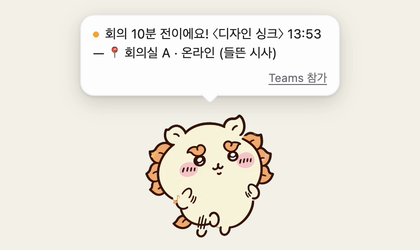
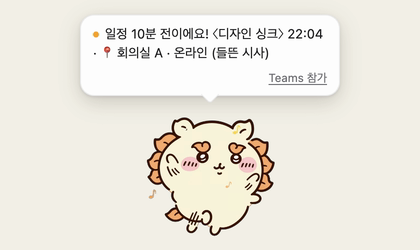
docs(readme): 시사랑 같이 공부하고 집중하기, 스크린샷(공부하는 시사·월 잔디·주 막대), 일정 알림 그림 새 문구로
데모 가짜 데몬에 집중하기를 붙이고 focus·focus-stats 장면을 넣었다.

diff --git a/desktop/test/fake-focus.test.js b/desktop/test/fake-focus.test.js
@@ -1,0 +1,74 @@
+import { test } from 'node:test';
+import assert from 'node:assert/strict';
+import { createFakeFocus, seedSpans, localDay, handleFocus } from '../scripts/fake-focus.mjs';
+
+const NOW = new Date(2026, 9, 14, 15, 0, 0).getTime(); // 2026-10-14(수) 15:00 로컬
+
+test('가짜 집중하기: 시작·일시정지·다시 시작·그만(두 번 눌러도 안전), 쉰 시간은 빼고 셈', () => {
+  let t = NOW;
+  const events = [];
+  const f = createFakeFocus({ emit: (e, d) => events.push([e, d]), now: () => t, seed: false });
+  assert.equal(f.view().active, null);
+  f.start();
+  const id = f.view().active.id;
+  f.start();
+  assert.equal(f.view().active.id, id);
+  t += 10 * 60e3;
+  f.pause(); f.pause();
+  assert.equal(f.view().active.paused, true);
+  assert.equal(f.view().active.since, null);
+  t += 5 * 60e3; // 쉬는 중
+  f.resume();
+  t += 2 * 60e3;
+  assert.equal(f.view().active.seconds, 12 * 60);
+  assert.equal(f.view().today, 12 * 60);
+  const r = f.stop();
+  assert.deepEqual(r.stopped, { id, seconds: 12 * 60 });
+  assert.equal(r.active, null);
+  assert.equal(f.stop().stopped, null);
+  assert.ok(events.some(([e, d]) => e === 'bubble' && d.text === '12분 집중했어요. 수고했어요!'));
+  assert.ok(events.filter(([e]) => e === 'focus').length >= 4);
+});
+
+test('가짜 집중하기: stats 는 날마다 seconds·longest, 자정 넘긴 구간은 나눠 셈, 틀린 범위는 undefined', () => {
+  let t = new Date(2026, 9, 13, 23, 50).getTime();
+  const f = createFakeFocus({ now: () => t, seed: false });
+  f.start();
+  t += 30 * 60e3; // 00:20 까지
+  f.stop();
+  const s = f.stats('2026-10-13', '2026-10-14');
+  assert.deepEqual(s.days, [{ date: '2026-10-13', seconds: 600, longest: 600 }, { date: '2026-10-14', seconds: 1200, longest: 1200 }]);
+  assert.equal(s.total, 1800);
+  assert.equal(f.stats('2026-10-14', '2026-10-13'), undefined);
+  assert.equal(f.stats('2026-13-01', '2026-13-02'), undefined);
+});
+
+test('지어 넣은 기록: 지난 몇 주에 진한 날·연한 날·쉰 날이 섞여 있고, 돌릴 때마다 같다', () => {
+  const f = createFakeFocus({ now: () => NOW });
+  const s = f.stats('2026-09-01', '2026-10-13');
+  const lv = (sec) => (sec < 1 ? 0 : sec < 1800 ? 1 : sec < 3600 ? 2 : sec < 7200 ? 3 : 4);
+  const levels = new Set(s.days.map((d) => lv(d.seconds)));
+  assert.deepEqual([...levels].sort(), [0, 1, 2, 3, 4]);
+  for (const d of s.days) assert.ok(d.longest <= d.seconds);
+  assert.deepEqual(seedSpans(NOW), seedSpans(NOW));
+  assert.ok(f.view().today > 0, '오늘 아침 기록');
+  assert.equal(f.view().day, localDay(NOW));
+});
+
+test('HTTP: GET /focus · /focus/stats(400) · POST /focus/<cmd>(404)', () => {
+  const f = createFakeFocus({ now: () => NOW, seed: false });
+  const out = [];
+  const json = (_res, status, body) => out.push([status, body]);
+  const call = (method, u) => handleFocus(f, { method }, null, new URL(u, 'http://x'), json);
+  assert.equal(call('GET', '/focus'), true);
+  assert.equal(out.at(-1)[0], 200);
+  call('GET', '/focus/stats?from=2026-10-14&to=2026-10-14');
+  assert.equal(out.at(-1)[1].days.length, 1);
+  call('GET', '/focus/stats?from=bad&to=2026-10-14');
+  assert.equal(out.at(-1)[0], 400);
+  call('POST', '/focus/start');
+  assert.ok(out.at(-1)[1].active);
+  call('POST', '/focus/nope');
+  assert.equal(out.at(-1)[0], 404);
+  assert.equal(call('GET', '/todos'), false);
+});

diff --git a/README.md b/README.md
@@ -18,7 +18,7 @@
 - 할 일 정리: 연결해 둔 Slack·캘린더·메일·이슈와 내 Claude Code·Codex 작업 기록을 읽어서 챙길 일을 우선순위별로 모아 줍니다. 줄을 두 번 누르면 제목과 설명을 그 자리에서 고칠 수 있고, ▶를 누르면 「(진행중)」이 붙고, 지운 할 일은 휴지통에 30일 동안 남습니다. "앞으로 세미나는 백로그로"처럼 말해 두면 규칙으로 기억합니다.
 - 브리핑: 평일 9~19시(한국 시간)에는 한 시간마다 지금 챙길 일을 짧게 정리해 드립니다. 메뉴의 「지금 브리핑」으로 아무 때나 부를 수도 있습니다.
 - 오늘 할 일: 할 일 중 오늘 할 것을 골라 할 일 탭과 같은 우선순위 묶음으로 봅니다. 아침마다 적어 달라고 알려 주고(설정에서 N시간마다·정한 시각·끄기), 절반·다 끝내면 응원해 줍니다. 이 맥에만 저장됩니다.
-- 집중하기: 할 일 탭이나 오늘 할 일 탭에서 「▶ 집중하기」를 누르면 시사가 공부하는 모습으로 바뀌고, 머리 위 말풍선에 집중한 시간이 흘러갑니다. 말풍선에서 일시정지와 그만하기를 누를 수 있고, 쉰 시간은 빼고 셉니다. 목록 맨 아래 「오늘 집중」을 누르면 주·월 단위 기록이 나옵니다. GitHub 잔디처럼 오래 집중한 날일수록 칸이 진하고, 날짜를 누르면 그날 총 집중 시간과 쉬지 않고 가장 길게 이어 간 시간을 보여 줍니다. AI 없이도 됩니다.
+- 집중하기: 시사와 같이 공부할 수도 있고, 일할 때 한 가지에 집중하는 시간을 잴 수도 있습니다. 할 일 탭이나 오늘 할 일 탭에서 「▶ 집중하기」를 누르면 시사도 책을 펴고 공부를 시작하고, 머리 위 말풍선에 집중한 시간이 흘러갑니다. 잠깐 쉴 때는 말풍선의 일시정지를 누르면 되고, 쉰 시간은 빼고 셉니다. 목록 맨 아래 「오늘 집중」을 누르면 주·월 기록이 나옵니다. GitHub 잔디처럼 오래 집중한 날일수록 칸이 진하고, 날짜를 누르면 그날 모두 얼마나 집중했는지와 쉬지 않고 가장 길게 이어 간 시간이 보입니다. AI 없이도 됩니다.
 - 일정 알림: 일정 10분 전(설정 창에서 5·15·30분 전이나 여러 번으로 바꾸거나 끌 수 있습니다)이 되면 캐릭터가 춤을 추면서 알려 줍니다. 캘린더 연결이 필요합니다.
 - 채팅: 패널에서는 길게 대화할 수 있고 파일도 붙일 수 있습니다. 지난 대화는 목록에 남습니다. AI가 없을 때는 「다음엔 뭐 할까요?」, 「좀 쉬어도 될까요?」 같은 말을 골라 시사와 짧게 주고받을 수 있습니다.
 - 코드 작업: Claude Code가 있으면 레포 코드를 고쳐 달라고 시킬 수도 있습니다. 별도 워크트리에서 고치고 테스트까지 돌린 다음, 통과하면 PR을 올리고 "머지할까요?" 하고 물어봅니다.
@@ -26,6 +26,10 @@
 | 패널: 할 일 | 패널: 개요·브리핑 | 패널: 채팅 |
 |---|---|---|
 | <img src="docs/images/panel-todos.png" alt="할 일 탭: 우선순위 묶음, (진행중), 펼치면 원문"> | <img src="docs/images/panel-overview.png" alt="개요 탭: 오늘 커밋·열린 할 일·최근 브리핑"> | <img src="docs/images/panel-chat.png" alt="채팅 탭: 표·콜아웃이 든 답"> |
+
+| 집중하기 | 오늘 집중: 월 기록 | 오늘 집중: 주 기록 |
+|---|---|---|
+| <img src="docs/images/focus-study.png" alt="공부하는 시사 머리 위에 집중 중 25:05, 일시정지·그만하기 버튼"> | <img src="docs/images/focus-stats.png" alt="월 기록: 오래 집중한 날일수록 진한 잔디, 고른 날의 총·최대 연속 집중 시간"> | <img src="docs/images/focus-week.png" alt="주 기록: 요일별 막대와 고른 날의 총·최대 연속 집중 시간"> |
 
 | 작업 세션 창(코드 고치기) | 머지 승인 | 설정 창(⚙) |
 |---|---|---|
